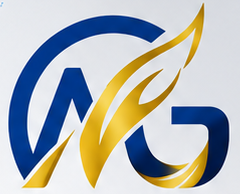
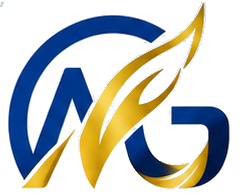
Add localized order form and prepare email notifications

diff --git a/src/storefront-copy.js b/src/storefront-copy.js
@@ -1,11 +1,11 @@
 export const copy = {
  en: {
- nav:['Home','Shop','About','Contact'], language:'Language', open:'Open menu', close:'Close menu', order:'Order on WhatsApp', shop:'Shop Products', shopNow:'Shop Now', all:'View all products', eyebrow:'HEALTHIER PEOPLE. STRONGER TOMORROWS.', title:['Premium Nutrition','for Strength, Wellness','& Daily Performance'], intro:'High-quality dietary supplements to support your energy, fitness, immunity and everyday well-being. Trusted nutrition for a stronger, healthier you.', mini:['Quality ingredients','Fast delivery in Kigali','Performance nutrition'], benefits:['Premium quality ingredients','Fast delivery in Kigali','Supports your wellness','Performance nutrition'], benefitText:['Carefully selected for your health','Get your supplements quickly','For a healthier, stronger you','Fuel your everyday potential'], featured:'Our Featured Products', specs:['300 g · 60 servings · 5 g','150 g · 30 servings · 5 g','Vitamin C + Zinc · 30 capsules','30 capsules','B1 + B6 + B12 · 30 capsules'], descriptions:['Supports strength, energy and muscular performance.','Supports endurance, performance and blood flow.','Supports your immune system and overall health.','Supports fat metabolism and energy production.','Supports nerve health and energy metabolism.'], names:['Creatine Monohydrate','L-Citrulline','C-Zinc','L-Carnitine','Milga Advance'], delivery:'FAST & RELIABLE DELIVERY IN KIGALI', deliveryText:'Order on WhatsApp and get your supplements delivered quickly and conveniently in Kigali.', points:['Easy ordering on WhatsApp','Fast delivery in Kigali','Customer support'], about:'About MGREFOTS', aboutTitle:'Nutrition for Your Everyday Goals', aboutText:'MGREFOTS LTD is based at Kigali View Hotel, Nyamirambo. We bring together dietary supplements, personal training and nutrition guidance to support your goals.', badges:['Kigali based','WhatsApp ordering','Training & nutrition guidance'], contact:'Ready to Order?', contactText:'Contact us for product availability, orders and delivery. Your first consultation and visit are free.', rights:'All rights reserved.', request:'Hello MGREFOTS, I would like to order', listRequest:'Hello MGREFOTS, please send me your available product list.'
+ nav:['Home','Shop','About','Contact'], language:'Language', open:'Open menu', close:'Close menu', order:'Order on WhatsApp', shop:'Shop Products', shopNow:'Shop Now', all:'View all products', eyebrow:'HEALTHIER PEOPLE. STRONGER TOMORROWS.', title:['Premium Nutrition','for Strength, Wellness','& Daily Performance'], intro:'High-quality dietary supplements to support your energy, fitness, immunity and everyday well-being. Trusted nutrition for a stronger, healthier you.', mini:['Quality ingredients','Fast delivery in Kigali','Performance nutrition'], benefits:['Premium quality ingredients','Fast delivery in Kigali','Supports your wellness','Performance nutrition'], benefitText:['Carefully selected for your health','Get your supplements quickly','For a healthier, stronger you','Fuel your everyday potential'], featured:'Our Featured Products', specs:['300 g · 60 servings · 5 g','150 g · 30 servings · 5 g','Vitamin C + Zinc · 30 capsules','30 capsules','B1 + B6 + B12 · 30 capsules'], descriptions:['Supports strength, energy and muscular performance.','Supports endurance, performance and blood flow.','Supports your immune system and overall health.','Supports fat metabolism and energy production.','Supports nerve health and energy metabolism.'], names:['Creatine Monohydrate','L-Citrulline','C-Zinc','L-Carnitine','Milga Advance'], prices:[50000,40000,27000,22000,50000], delivery:'FAST & RELIABLE DELIVERY IN KIGALI', deliveryText:'Order on WhatsApp and get your supplements delivered quickly and conveniently in Kigali.', points:['Easy ordering on WhatsApp','Fast delivery in Kigali','Customer support'], about:'About MGREFOTS', aboutTitle:'Nutrition for Your Everyday Goals', aboutText:'MGREFOTS LTD is based at Kigali View Hotel, Nyamirambo. We bring together dietary supplements, personal training and nutrition guidance to support your goals.', badges:['Kigali based','WhatsApp ordering','Training & nutrition guidance'], contact:'Ready to Order?', contactText:'Contact us for product availability, orders and delivery. Your first consultation and visit are free.', rights:'All rights reserved.', request:'Hello MGREFOTS, I would like to order', listRequest:'Hello MGREFOTS, please send me your available product list.', orderTitle:'Place your order', orderIntro:'Choose a product and quantity, then enter your contact and delivery details. Our team will contact you to confirm the order and payment.', fieldName:'Full name', fieldPhone:'Phone number', fieldCity:'City', fieldArea:'Area / district', fieldStreet:'Street / building number', fieldProduct:'Choose a product', fieldQty:'Quantity (bottles)', total:'Order total', submit:'Submit order', submitting:'Sending…', orderSuccess:'Your request was sent. Our team will contact you shortly to confirm your order and payment.', orderError:'We could not send your request. Please try again or contact us on WhatsApp.', paymentNote:'No payment is taken on this page. We will confirm payment details with you after receiving your order.', required:'Please fill in all required fields.', backHome:'Back to the shop', orderNav:'Order', emailNotReady:'Online order email is not connected yet. Please contact us on WhatsApp to place your order.'
  },
  rw: {
- nav:['Ahabanza','Ibicuruzwa','Abo turi bo','Twandikire'], language:'Ururimi', open:'Fungura menu', close:'Funga menu', order:'Tumiza kuri WhatsApp', shop:'Reba ibicuruzwa', shopNow:'Tumiza ubu', all:'Reba ibicuruzwa byose', eyebrow:'UBUZIMA BWIZA. EJO HAZAZA HARUSHIJEHO KUBA HEZA.', title:['Intungamubiri nziza','zo kongera imbaraga','no kwita ku buzima'], intro:'Inyongeramirire zifasha imbaraga, imyitozo n’ubudahangarwa bw’umubiri. Turakuzanira ibyo watumije muri Kigali.', mini:['Ibigize ibicuruzwa byiza','Kugeza ibicuruzwa muri Kigali','Intungamubiri z’imyitozo'], benefits:['Ibigize ibicuruzwa byiza','Kugeza ibicuruzwa muri Kigali','Kwita ku buzima bwawe','Intungamubiri z’imyitozo'], benefitText:['Byatoranyijwe mu kwita ku buzima','Bona ibyo watumije vuba','Ku buzima bwiza n’imbaraga','Fasha imikorere yawe ya buri munsi'], featured:'Ibicuruzwa byacu', specs:['300 g · Inshuro 60 · 5 g','150 g · Inshuro 30 · 5 g','Vitamine C + Zinc · Kapsule 30','Kapsule 30','B1 + B6 + B12 · Kapsule 30'], descriptions:['Ifasha imbaraga n’imikorere y’imikaya.','Ifasha kwihangana mu myitozo no gutembereza amaraso.','Ifasha ubudahangarwa bw’umubiri n’ubuzima muri rusange.','Ifasha umubiri gukoresha ibinure mu gukora ingufu.','Ifasha ubuzima bw’imyakura n’imikorere y’ingufu.'], names:['Creatine Monohydrate','L-Citrulline','C-Zinc','L-Carnitine','Milga Advance'], delivery:'TUKUGEZAHO IBICURUZWA MURI KIGALI', deliveryText:'Tumiza kuri WhatsApp, tukugezeho inyongeramirire zawe muri Kigali vuba kandi mu buryo bworoshye.', points:['Gutumiza kuri WhatsApp','Kugeza ibicuruzwa muri Kigali','Gufasha abakiriya'], about:'Abo MGREFOTS turi bo', aboutTitle:'Intungamubiri zigufasha kugera ku ntego zawe', aboutText:'MGREFOTS LTD ikorera muri Kigali View Hotel, Nyamirambo. Dutanga inyongeramirire, imyitozo iyobowe n’inama ku mirire kugira ngo tugufashe kugera ku ntego zawe.', badges:['Dukorera muri Kigali','Gutumiza kuri WhatsApp','Imyitozo n’inama ku mirire'], contact:'Witeguye gutumiza?', contactText:'Twandikire ubaze ibicuruzwa bihari, utumize cyangwa usabe ko tubikugezaho. Inama n’uruzinduko bya mbere ni ubuntu.', rights:'Uburenganzira bwose burabitswe.', request:'Muraho MGREFOTS, ndashaka gutumiza', listRequest:'Muraho MGREFOTS, munyohereze urutonde rw’ibicuruzwa bihari.'
+ nav:['Ahabanza','Ibicuruzwa','Abo turi bo','Twandikire'], language:'Ururimi', open:'Fungura menu', close:'Funga menu', order:'Tumiza kuri WhatsApp', shop:'Reba ibicuruzwa', shopNow:'Tumiza ubu', all:'Reba ibicuruzwa byose', eyebrow:'UBUZIMA BWIZA. EJO HAZAZA HARUSHIJEHO KUBA HEZA.', title:['Intungamubiri nziza','zo kongera imbaraga','no kwita ku buzima'], intro:'Inyongeramirire zifasha imbaraga, imyitozo n’ubudahangarwa bw’umubiri. Turakuzanira ibyo watumije muri Kigali.', mini:['Ibigize ibicuruzwa byiza','Kugeza ibicuruzwa muri Kigali','Intungamubiri z’imyitozo'], benefits:['Ibigize ibicuruzwa byiza','Kugeza ibicuruzwa muri Kigali','Kwita ku buzima bwawe','Intungamubiri z’imyitozo'], benefitText:['Byatoranyijwe mu kwita ku buzima','Bona ibyo watumije vuba','Ku buzima bwiza n’imbaraga','Fasha imikorere yawe ya buri munsi'], featured:'Ibicuruzwa byacu', specs:['300 g · Inshuro 60 · 5 g','150 g · Inshuro 30 · 5 g','Vitamine C + Zinc · Kapsule 30','Kapsule 30','B1 + B6 + B12 · Kapsule 30'], descriptions:['Ifasha imbaraga n’imikorere y’imikaya.','Ifasha kwihangana mu myitozo no gutembereza amaraso.','Ifasha ubudahangarwa bw’umubiri n’ubuzima muri rusange.','Ifasha umubiri gukoresha ibinure mu gukora ingufu.','Ifasha ubuzima bw’imyakura n’imikorere y’ingufu.'], names:['Creatine Monohydrate','L-Citrulline','C-Zinc','L-Carnitine','Milga Advance'], prices:[50000,40000,27000,22000,50000], delivery:'TUKUGEZAHO IBICURUZWA MURI KIGALI', deliveryText:'Tumiza kuri WhatsApp, tukugezeho inyongeramirire zawe muri Kigali vuba kandi mu buryo bworoshye.', points:['Gutumiza kuri WhatsApp','Kugeza ibicuruzwa muri Kigali','Gufasha abakiriya'], about:'Abo MGREFOTS turi bo', aboutTitle:'Intungamubiri zigufasha kugera ku ntego zawe', aboutText:'MGREFOTS LTD ikorera muri Kigali View Hotel, Nyamirambo. Dutanga inyongeramirire, imyitozo iyobowe n’inama ku mirire kugira ngo tugufashe kugera ku ntego zawe.', badges:['Dukorera muri Kigali','Gutumiza kuri WhatsApp','Imyitozo n’inama ku mirire'], contact:'Witeguye gutumiza?', contactText:'Twandikire ubaze ibicuruzwa bihari, utumize cyangwa usabe ko tubikugezaho. Inama n’uruzinduko bya mbere ni ubuntu.', rights:'Uburenganzira bwose burabitswe.', request:'Muraho MGREFOTS, ndashaka gutumiza', listRequest:'Muraho MGREFOTS, munyohereze urutonde rw’ibicuruzwa bihari.', orderTitle:'Tanga komande', orderIntro:'Hitamo igicuruzwa n’umubare wacyo, hanyuma wandike amakuru yawe n’aho tuzakigeza. Tuzaguhamagara twemeze komande n’uburyo bwo kwishyura.', fieldName:'Amazina yose', fieldPhone:'Nimero ya telefoni', fieldCity:'Umujyi', fieldArea:'Agace / umurenge', fieldStreet:'Izina ry’umuhanda / nimero y’inzu', fieldProduct:'Hitamo igicuruzwa', fieldQty:'Umubare w’amacupa', total:'Amafaranga yose', submit:'Ohereza komande', submitting:'Birimo koherezwa…', orderSuccess:'Komande yawe yoherejwe. Tuzakuvugisha vuba twemeze ibyo watumije n’uburyo bwo kwishyura.', orderError:'Ntitwabashije kohereza komande. Ongera ugerageze cyangwa utwandikire kuri WhatsApp.', paymentNote:'Nta mafaranga yishyuwe kuri uru rubuga. Tuzemeza uburyo bwo kwishyura tumaze kwakira komande yawe.', required:'Uzuza ibisabwa byose.', backHome:'Subira ku bicuruzwa', orderNav:'Komande', emailNotReady:'Kwakira komande kuri interineti ntibiratangira. Twandikire kuri WhatsApp tugufashe gutumiza.'
  },
  ar: {
- nav:['الرئيسية','المنتجات','عن الشركة','تواصل معنا'], language:'اللغة', open:'فتح القائمة', close:'إغلاق القائمة', order:'اطلب عبر واتساب', shop:'تسوّق المنتجات', shopNow:'اطلب الآن', all:'شاهد كل المنتجات', eyebrow:'صحة أفضل اليوم. قوة أكبر غدًا.', title:['تغذية عالية الجودة','للقوة والصحة','وأداء أفضل كل يوم'], intro:'مكملات غذائية عالية الجودة لدعم طاقتك ولياقتك ومناعتك وصحتك اليومية، مع خدمة توصيل موثوقة داخل كيغالي.', mini:['مكونات عالية الجودة','توصيل سريع في كيغالي','تغذية تدعم أداءك'], benefits:['مكونات عالية الجودة','توصيل سريع في كيغالي','دعم صحتك اليومية','تغذية للأداء الرياضي'], benefitText:['مختارة بعناية لصحتك','منتجاتك تصلك بسرعة','لصحة أفضل وجسم أقوى','ادعم أداءك كل يوم'], featured:'منتجاتنا المميزة', specs:['٣٠٠ جم · ٦٠ حصة · ٥ جم','١٥٠ جم · ٣٠ حصة · ٥ جم','فيتامين C + زنك · ٣٠ كبسولة','٣٠ كبسولة','B1 + B6 + B12 · ٣٠ كبسولة'], descriptions:['يدعم القوة والطاقة والأداء العضلي.','يدعم التحمل والأداء وتدفق الدم.','يدعم المناعة والصحة العامة.','يدعم استقلاب الدهون وإنتاج الطاقة.','يدعم صحة الأعصاب واستقلاب الطاقة.'], names:['كرياتين مونوهيدرات','إل-سيترولين','سي-زنك','إل-كارنيتين','ميلجا أدفانس'], delivery:'توصيل سريع وموثوق داخل كيغالي', deliveryText:'اطلب عبر واتساب واستلم مكملاتك بسرعة وسهولة داخل كيغالي.', points:['طلب سهل عبر واتساب','توصيل سريع في كيغالي','دعم العملاء'], about:'عن MGREFOTS', aboutTitle:'تغذية تساعدك على تحقيق أهدافك', aboutText:'شركة MGREFOTS LTD مقرها فندق كيغالي فيو، نياميرامبو. نقدم المكملات الغذائية والتدريب الشخصي والإرشاد الغذائي لمساعدتك في تحقيق أهدافك.', badges:['مقرنا في كيغالي','الطلب عبر واتساب','تدريب وإرشاد غذائي'], contact:'جاهز لطلب منتجاتك؟', contactText:'تواصل معنا لمعرفة المنتجات المتاحة والطلب والتوصيل. الاستشارة والزيارة الأولى مجانية.', rights:'جميع الحقوق محفوظة.', request:'مرحبًا MGREFOTS، أريد طلب', listRequest:'مرحبًا MGREFOTS، أرسلوا لي قائمة المنتجات المتاحة.'
+ nav:['الرئيسية','المنتجات','عن الشركة','تواصل معنا'], language:'اللغة', open:'فتح القائمة', close:'إغلاق القائمة', order:'اطلب عبر واتساب', shop:'تسوّق المنتجات', shopNow:'اطلب الآن', all:'شاهد كل المنتجات', eyebrow:'صحة أفضل اليوم. قوة أكبر غدًا.', title:['تغذية عالية الجودة','للقوة والصحة','وأداء أفضل كل يوم'], intro:'مكملات غذائية عالية الجودة لدعم طاقتك ولياقتك ومناعتك وصحتك اليومية، مع خدمة توصيل موثوقة داخل كيغالي.', mini:['مكونات عالية الجودة','توصيل سريع في كيغالي','تغذية تدعم أداءك'], benefits:['مكونات عالية الجودة','توصيل سريع في كيغالي','دعم صحتك اليومية','تغذية للأداء الرياضي'], benefitText:['مختارة بعناية لصحتك','منتجاتك تصلك بسرعة','لصحة أفضل وجسم أقوى','ادعم أداءك كل يوم'], featured:'منتجاتنا المميزة', specs:['٣٠٠ جم · ٦٠ حصة · ٥ جم','١٥٠ جم · ٣٠ حصة · ٥ جم','فيتامين C + زنك · ٣٠ كبسولة','٣٠ كبسولة','B1 + B6 + B12 · ٣٠ كبسولة'], descriptions:['يدعم القوة والطاقة والأداء العضلي.','يدعم التحمل والأداء وتدفق الدم.','يدعم المناعة والصحة العامة.','يدعم استقلاب الدهون وإنتاج الطاقة.','يدعم صحة الأعصاب واستقلاب الطاقة.'], names:['كرياتين مونوهيدرات','إل-سيترولين','سي-زنك','إل-كارنيتين','ميلجا أدفانس'], prices:[50000,40000,27000,22000,50000], delivery:'توصيل سريع وموثوق داخل كيغالي', deliveryText:'اطلب عبر واتساب واستلم مكملاتك بسرعة وسهولة داخل كيغالي.', points:['طلب سهل عبر واتساب','توصيل سريع في كيغالي','دعم العملاء'], about:'عن MGREFOTS', aboutTitle:'تغذية تساعدك على تحقيق أهدافك', aboutText:'شركة MGREFOTS LTD مقرها فندق كيغالي فيو، نياميرامبو. نقدم المكملات الغذائية والتدريب الشخصي والإرشاد الغذائي لمساعدتك في تحقيق أهدافك.', badges:['مقرنا في كيغالي','الطلب عبر واتساب','تدريب وإرشاد غذائي'], contact:'جاهز لطلب منتجاتك؟', contactText:'تواصل معنا لمعرفة المنتجات المتاحة والطلب والتوصيل. الاستشارة والزيارة الأولى مجانية.', rights:'جميع الحقوق محفوظة.', request:'مرحبًا MGREFOTS، أريد طلب', listRequest:'مرحبًا MGREFOTS، أرسلوا لي قائمة المنتجات المتاحة.', orderTitle:'إتمام طلبك', orderIntro:'اختر المنتج والكمية، ثم اكتب بياناتك وعنوان التوصيل. سنتواصل معك لتأكيد الطلب وطريقة الدفع.', fieldName:'الاسم الكامل', fieldPhone:'رقم الهاتف', fieldCity:'المدينة', fieldArea:'المنطقة / الحي', fieldStreet:'الشارع / رقم المبنى', fieldProduct:'اختر المنتج', fieldQty:'الكمية (عبوات)', total:'إجمالي الطلب', submit:'إرسال الطلب', submitting:'جارٍ الإرسال…', orderSuccess:'تم إرسال طلبك. سيتواصل معك فريقنا قريبًا لتأكيد الطلب والدفع.', orderError:'تعذر إرسال الطلب. حاول مرة أخرى أو تواصل معنا عبر واتساب.', paymentNote:'لن يتم خصم أي مبلغ من هذه الصفحة. سنتواصل معك لتأكيد طريقة الدفع بعد استلام طلبك.', required:'يرجى ملء جميع البيانات المطلوبة.', backHome:'العودة إلى المتجر', orderNav:'اطلب الآن', emailNotReady:'استقبال الطلبات عبر الموقع لم يتفعّل بعد. تواصل معنا عبر واتساب لإتمام طلبك.'
  }
 };

diff --git a/src/App.jsx b/src/App.jsx
@@ -7,19 +7,29 @@ import '@fontsource/libre-baskerville/700.css';
 const images=['creatine','citrulline','czinc','carnitine','milga'];
 const wa=message=>`https://wa.me/250792294432?text=${encodeURIComponent(message)}`;
 function WhatsAppIcon(){return <svg width="21" height="21" viewBox="0 0 24 24" fill="none" stroke="currentColor" strokeWidth="1.7" aria-hidden="true"><path d="M20.5 11.7a8.5 8.5 0 0 1-12.8 7.4L3 20.5l1.4-4.6A8.5 8.5 0 1 1 20.5 11.7Z"/><path d="M8.5 7.5c-.8.1-1.1 1-.8 2 .8 2.7 2.8 4.7 5.6 5.5 1 .3 2-.1 2.2-.9l.2-.8-2.5-1.2-.8.9c-1.5-.7-2.5-1.7-3.1-3.1l.8-.8-1-2.2Z"/></svg>}
-function Brand(){return <a className="brand" href="#home" aria-label="MGREFOTS"><img className="brand-symbol" src="/brand/mark.png" width="240" height="194" alt=""/><span className="brand-wordmark"><strong>M.G.REFOTS<sup>®</sup></strong><small>DIETARY SUPPLEMENTS</small></span></a>}
+function Brand(){return <a className="brand" href="/#home" aria-label="MGREFOTS"><img className="brand-symbol" src="/brand/mark.png" width="240" height="194" alt=""/><span className="brand-wordmark"><strong>M.G.REFOTS<sup>®</sup></strong><small>DIETARY SUPPLEMENTS</small></span></a>}
+function LanguagePicker({lang,setLang,t}){return <label className="language-picker"><Globe2 size={17}/><span className="sr-only">{t.language}</span><select aria-label={t.language} value={lang} onChange={e=>setLang(e.target.value)}><option value="en">English</option><option value="rw">Kinyarwanda</option><option value="ar">العربية</option></select></label>}
+function OrderButton({className='',t}){return <a className={`btn btn-gold ${className}`} href={wa(t.request)} target="_blank" rel="noreferrer"><WhatsAppIcon/><span>{t.order}</span><ArrowRight size={16}/></a>}
 export default function App(){
  const [lang,setLang]=useState(()=>{try{return ['en','rw','ar'].includes(localStorage.getItem('mgrefots-language'))?localStorage.getItem('mgrefots-language'):'en'}catch{return 'en'}});
- const [menu,setMenu]=useState(false); const t=copy[lang];
+ const [menu,setMenu]=useState(false); const [quantity,setQuantity]=useState(1); const [submitting,setSubmitting]=useState(false); const [notice,setNotice]=useState(''); const [sent,setSent]=useState(false); const [form,setForm]=useState({name:'',phone:'',city:'',area:'',street:'',product:new URLSearchParams(window.location.search).get('product')||'creatine'}); const t=copy[lang];
  useEffect(()=>{document.documentElement.lang=lang;document.documentElement.dir=lang==='ar'?'rtl':'ltr';try{localStorage.setItem('mgrefots-language',lang)}catch{}},[lang]);
  const order=(i)=>`${t.request} ${t.names[i]} (${t.specs[i]}).`;
- const OrderButton=({className=''})=><a className={`btn btn-gold ${className}`} href={wa(t.request)} target="_blank" rel="noreferrer"><WhatsAppIcon/><span>{t.order}</span><ArrowRight size={16}/></a>;
  const icons=[Leaf,Truck,ShieldCheck,Dumbbell];
- return <div className="site-shell"><header className="site-header"><div className="container header-inner"><Brand/><nav className={`main-nav ${menu?'open':''}`} aria-label={t.nav[0]}>{['home','shop','about','contact'].map((id,i)=><a key={id} href={`#${id}`} onClick={()=>setMenu(false)}>{t.nav[i]}</a>)}<OrderButton className="nav-whatsapp"/></nav><div className="header-controls"><label className="language-picker"><Globe2 size={17}/><span className="sr-only">{t.language}</span><select aria-label={t.language} value={lang} onChange={e=>setLang(e.target.value)}><option value="en">English</option><option value="rw">Kinyarwanda</option><option value="ar">العربية</option></select></label><button className="menu-toggle" aria-expanded={menu} aria-label={menu?t.close:t.open} onClick={()=>setMenu(!menu)}>{menu?<X/>:<Menu/>}</button></div></div></header>
+ const isOrderPage=window.location.pathname.replace(/\/$/,'')==='/order';
+ const submitOrder=async event=>{event.preventDefault();setNotice('');setSubmitting(true);try{const response=await fetch('/api/orders',{method:'POST',headers:{'Content-Type':'application/json'},body:JSON.stringify({...form,quantity:Number(quantity),website:''})});const data=await response.json();if(!response.ok)throw new Error(data.code==='ORDER_EMAIL_NOT_CONFIGURED'?t.emailNotReady:t.orderError);setSent(true);setNotice(t.orderSuccess)}catch(error){setNotice(error.message||t.orderError)}finally{setSubmitting(false)}};
+ if(isOrderPage)return <div className="site-shell order-page"><header className="site-header"><div className="container header-inner"><Brand/><div className="header-controls"><LanguagePicker lang={lang} setLang={setLang} t={t}/><a className="order-back" href="/#shop">{t.backHome}</a></div></div></header><main className="order-main"><div className="order-card"><a href="/#home" className="order-brand"><Brand/></a><p className="section-kicker">MGREFOTS · KIGALI</p><h1>{t.orderTitle}</h1><p className="order-intro">{t.orderIntro}</p>{sent?<div className="order-success" role="status"><CheckCircle2 size={34}/><p>{notice}</p><a className="btn btn-gold" href="/#shop">{t.backHome}</a></div>:<form className="order-form" onSubmit={submitOrder}>
+ <label>{t.fieldName}<input autoComplete="name" name="name" value={form.name} onChange={e=>setForm({...form,name:e.target.value})} required maxLength="100"/></label>
+ <label>{t.fieldPhone}<input type="tel" autoComplete="tel" name="phone" inputMode="tel" value={form.phone} onChange={e=>setForm({...form,phone:e.target.value})} required maxLength="24" placeholder="+250 7xx xxx xxx" dir="ltr"/></label>
+ <div className="order-address-grid"><label>{t.fieldCity}<input autoComplete="address-level2" name="city" value={form.city} onChange={e=>setForm({...form,city:e.target.value})} required maxLength="80"/></label><label>{t.fieldArea}<input autoComplete="address-level3" name="area" value={form.area} onChange={e=>setForm({...form,area:e.target.value})} required maxLength="100"/></label></div>
+ <label>{t.fieldStreet}<input autoComplete="street-address" name="street" value={form.street} onChange={e=>setForm({...form,street:e.target.value})} required maxLength="160"/></label>
+ <div className="order-address-grid"><label>{t.fieldProduct}<select name="product" value={form.product} onChange={e=>setForm({...form,product:e.target.value})}>{images.map((image,i)=><option value={image} key={image}>{t.names[i]} — {t.prices[i].toLocaleString('en-US')} RWF</option>)}</select></label><label>{t.fieldQty}<input type="number" name="quantity" min="1" max="99" step="1" value={quantity} onChange={e=>setQuantity(Math.max(1,Math.min(99,Number(e.target.value)||1)))} required/></label></div>
+ <div className="order-total"><span>{t.total}</span><strong>{((t.prices[images.indexOf(form.product)]||0)*quantity).toLocaleString('en-US')} RWF</strong></div><p className="payment-note">{t.paymentNote}</p><input className="order-honeypot" type="text" name="website" tabIndex="-1" autoComplete="off" aria-hidden="true"/><button className="btn btn-gold order-submit" type="submit" disabled={submitting}>{submitting?t.submitting:t.submit}<ArrowRight size={17}/></button>{notice&&<p className="order-error" role="alert">{notice}</p>}</form>}<a className="order-whatsapp" href={wa(t.request)} target="_blank" rel="noreferrer"><WhatsAppIcon/>{t.order}</a></div></main><footer className="site-footer"><div className="container footer-inner"><Brand/><p>© {new Date().getFullYear()} MGREFOTS LTD. {t.rights}</p></div></footer></div>;
+ return <div className="site-shell"><header className="site-header"><div className="container header-inner"><Brand/><nav className={`main-nav ${menu?'open':''}`} aria-label={t.nav[0]}>{['home','shop','about','contact'].map((id,i)=><a key={id} href={`#${id}`} onClick={()=>setMenu(false)}>{t.nav[i]}</a>)}<a className="order-nav-link" href="/order">{t.orderNav}</a><OrderButton className="nav-whatsapp" t={t}/></nav><div className="header-controls"><LanguagePicker lang={lang} setLang={setLang} t={t}/><button className="menu-toggle" aria-expanded={menu} aria-label={menu?t.close:t.open} onClick={()=>setMenu(!menu)}>{menu?<X/>:<Menu/>}</button></div></div></header>
  <main><section id="home" className="hero"><div className="container hero-grid"><div className="hero-copy"><p className="eyebrow">{t.eyebrow}</p><h1>{t.title.map(line=><span key={line}>{line}</span>)}</h1><p className="hero-text">{t.intro}</p><div className="hero-actions"><a className="btn btn-gold" href="#shop">{t.shop}<ArrowRight size={18}/></a><a className="btn btn-outline" href={wa(t.request)} target="_blank" rel="noreferrer"><WhatsAppIcon/>{t.order}</a></div><div className="hero-mini-features">{[ShieldCheck,Truck,Dumbbell].map((Icon,i)=><div key={i}><Icon size={24}/><span>{t.mini[i]}</span></div>)}</div></div><div className="hero-visual"><img className="hero-scene" src="/brand/hero-products.webp" alt={t.names.slice(0,3).join(', ')} fetchPriority="high"/></div></div></section>
  <section className="benefit-strip"><div className="container benefit-grid">{icons.map((Icon,i)=><article key={i}><span className="benefit-icon"><Icon size={32} strokeWidth={1.8}/></span><div><strong>{t.benefits[i]}</strong><span>{t.benefitText[i]}</span></div></article>)}</div></section>
- <section id="shop" className="products-section section"><div className="container"><div className="section-heading"><h2>{t.featured}</h2><a href={wa(t.listRequest)} target="_blank" rel="noreferrer">{t.all}<ArrowRight size={16}/></a></div><div className="product-grid">{images.map((img,i)=><article className="product-card" key={img}><div className="product-image-wrap"><img src={`/products/${img}.webp`} alt={t.names[i]} loading="lazy" width="1000" height="1000"/></div><div className="product-card-copy"><h3>{t.names[i]}</h3><p className="product-subtitle">{t.specs[i]}</p><p>{t.descriptions[i]}</p></div><a className="shop-now" href={wa(order(i))} target="_blank" rel="noreferrer">{t.shopNow}<ArrowRight size={16}/></a></article>)}</div></div></section>
- <section className="delivery-band"><div className="delivery-photo" aria-hidden="true"/><div className="container delivery-inner"><div className="delivery-title"><MapPin size={34}/><div><strong>{t.delivery}</strong><p>{t.deliveryText}</p></div></div><OrderButton/><div className="delivery-points">{[PackageCheck,Bike,ShieldCheck].map((Icon,i)=><span key={i}><Icon size={28}/>{t.points[i]}</span>)}</div></div></section>
+ <section id="shop" className="products-section section"><div className="container"><div className="section-heading"><h2>{t.featured}</h2><a href={wa(t.listRequest)} target="_blank" rel="noreferrer">{t.all}<ArrowRight size={16}/></a></div><div className="product-grid">{images.map((img,i)=><article className="product-card" key={img}><div className="product-image-wrap"><img src={`/products/${img}.webp`} alt={t.names[i]} loading="lazy" width="1000" height="1000"/></div><div className="product-card-copy"><h3>{t.names[i]}</h3><p className="product-subtitle">{t.specs[i]}</p><p>{t.descriptions[i]}</p></div><a className="shop-now" href={`/order?product=${img}`}>{t.shopNow}<ArrowRight size={16}/></a></article>)}</div></div></section>
+ <section className="delivery-band"><div className="delivery-photo" aria-hidden="true"/><div className="container delivery-inner"><div className="delivery-title"><MapPin size={34}/><div><strong>{t.delivery}</strong><p>{t.deliveryText}</p></div></div><OrderButton t={t}/><div className="delivery-points">{[PackageCheck,Bike,ShieldCheck].map((Icon,i)=><span key={i}><Icon size={28}/>{t.points[i]}</span>)}</div></div></section>
  <section id="about" className="section"><div className="container about-panel"><div><p className="section-kicker">{t.about}</p><h2>{t.aboutTitle}</h2><p>{t.aboutText}</p></div><div className="about-badges">{t.badges.map(text=><span key={text}><CheckCircle2 size={22}/>{text}</span>)}</div></div></section>
- <section id="contact" className="contact-section"><div className="container contact-grid"><div><h2>{t.contact}</h2><p>{t.contactText}</p><OrderButton/></div><div className="contact-card"><a dir="ltr" href="tel:+250792294432"><Phone size={21}/>+250 792 294 432</a><a dir="ltr" href="mailto:info@mgrefots.com"><Mail size={21}/>info@mgrefots.com</a><span><MapPin size={21}/>Kigali View Hotel, Nyamirambo</span><div className="social-row"><a href="https://www.instagram.com/mobadr2026/" aria-label="Instagram" target="_blank" rel="noreferrer"><Instagram/></a><a href="https://www.facebook.com/profile.php?id=61580765596064" aria-label="Facebook" target="_blank" rel="noreferrer"><Facebook/></a></div></div></div></section></main><footer className="site-footer"><div className="container footer-inner"><Brand/><p>© {new Date().getFullYear()} MGREFOTS LTD. {t.rights}</p></div></footer></div>
+ <section id="contact" className="contact-section"><div className="container contact-grid"><div><h2>{t.contact}</h2><p>{t.contactText}</p><OrderButton t={t}/></div><div className="contact-card"><a dir="ltr" href="tel:+250792294432"><Phone size={21}/>+250 792 294 432</a><a dir="ltr" href="mailto:info@mgrefots.com"><Mail size={21}/>info@mgrefots.com</a><span><MapPin size={21}/>Kigali View Hotel, Nyamirambo</span><div className="social-row"><a href="https://www.instagram.com/mobadr2026/" aria-label="Instagram" target="_blank" rel="noreferrer"><Instagram/></a><a href="https://www.facebook.com/profile.php?id=61580765596064" aria-label="Facebook" target="_blank" rel="noreferrer"><Facebook/></a></div></div></div></section></main><footer className="site-footer"><div className="container footer-inner"><Brand/><p>© {new Date().getFullYear()} MGREFOTS LTD. {t.rights}</p></div></footer></div>
 }

diff --git a/src/index.css b/src/index.css
@@ -4,4 +4,7 @@
 @media(max-width:900px){.hero-grid{grid-template-columns:46% 54%}.hero h1{font-size:30px}.hero-copy{padding-block:30px}.hero-mini-features{flex-wrap:wrap;gap:12px}.hero-scene{object-position:55% center}.hero-actions .btn{font-size:11px;padding:0 14px}.product-grid{grid-template-columns:repeat(3,minmax(0,1fr))}.benefit-grid{grid-template-columns:repeat(2,1fr);gap:15px}.benefit-grid article:nth-child(2){border:0}.benefit-grid article:first-child{padding-inline-start:12px}.contact-grid{gap:24px}.about-panel{gap:20px}}
 @media(max-width:680px){html{scroll-padding-top:75px}.container{width:calc(100% - 28px)}.header-inner{min-height:68px;gap:8px}.brand img{width:156px}.language-picker{padding:6px;gap:3px}.language-picker select{max-width:95px;font-size:11px}.language-picker>svg{width:15px}.menu-toggle{display:block;padding:6px}.main-nav{display:none;position:absolute;top:68px;inset-inline:14px;padding:15px;background:white;border:1px solid var(--line);border-radius:10px;box-shadow:0 12px 30px #08255022}.main-nav.open{display:grid;gap:3px}.main-nav>a:not(.btn){padding:12px}.main-nav .nav-whatsapp{display:flex}.hero-grid{display:flex;flex-direction:column}.hero{background:#faf6ef}.hero-copy{padding:28px 4px 24px;text-align:center}.hero h1{font-size:32px;line-height:1.25;letter-spacing:-.7px}.hero-text{font-size:13px;margin:15px auto 0;max-width:440px}.eyebrow{font-size:9px}.hero-actions,.hero-mini-features{justify-content:center}.hero-actions{gap:8px}.hero-actions .btn{font-size:12px}.hero-mini-features{margin-top:22px;flex-wrap:nowrap;font-size:9px;gap:10px}.hero-mini-features>div{flex-direction:column;font-size:9px;flex:1}.hero-visual{width:calc(100% + 28px);margin-inline:-14px;aspect-ratio:850/374}.hero-scene{position:static;width:100%;height:100%;object-fit:cover;mask-image:none!important;-webkit-mask-image:none!important}.benefit-grid{gap:0;padding-block:6px}.benefit-grid article{padding:14px 8px;gap:8px;border:0}.benefit-grid strong{font-size:10px}.benefit-grid span:not(.benefit-icon){font-size:9px}.benefit-icon svg{width:26px}.section{padding:25px 0}.section-heading h2{font-size:20px}.section-heading>a{font-size:9px}.section-heading{gap:12px}.product-grid{grid-template-columns:repeat(2,minmax(0,1fr));gap:10px}.product-image-wrap{height:190px;padding:8px}.product-card h3{font-size:14px}.product-card-copy{padding-inline:8px}.product-card p{font-size:11px}.product-card .product-subtitle{font-size:9px}.product-card:last-child{grid-column:1/-1;width:calc(50% - 5px);justify-self:center}.delivery-photo{position:relative;height:115px;width:100%;background-position:center 45%}.delivery-inner{padding:22px 0;display:flex;flex-direction:column;gap:18px}.delivery-title{align-self:stretch}.delivery-title strong{font-size:16px}.delivery-points{width:100%;padding:0}.delivery-points span:first-child{border:0}.about-panel{grid-template-columns:1fr;padding:23px;gap:12px}.about-panel h2,.contact-section h2{font-size:22px}.about-panel p:not(.section-kicker){font-size:13px}.contact-section{padding:32px 0}.contact-grid{grid-template-columns:1fr}.contact-card{padding:20px}.footer-inner{padding:20px 0;flex-direction:column;gap:10px;min-height:110px;text-align:center}[dir=rtl] .hero{background:#faf6ef}[dir=rtl] .hero h1{font-size:30px}}
 @media(prefers-reduced-motion:reduce){html{scroll-behavior:auto}*,*:before,*:after{transition:none!important}}
-.brand{display:inline-flex;align-items:center;gap:9px;direction:ltr}.brand .brand-symbol{width:55px;height:46px;object-fit:contain;mix-blend-mode:multiply}.brand-wordmark{display:flex;flex-direction:column;color:#071f45;text-align:center}.brand-wordmark strong{font-family:'Libre Baskerville',Georgia,serif;font-size:17px;letter-spacing:.1px}.brand-wordmark sup{font-family:'Inter Variable',sans-serif;font-size:7px}.brand-wordmark small{font-family:'Inter Variable',sans-serif;font-size:6px;font-weight:650;letter-spacing:1.1px;margin-top:4px}@media(max-width:680px){.brand{gap:4px}.brand .brand-symbol{width:43px;height:38px}.brand-wordmark strong{font-size:13px}.brand-wordmark small{font-size:5px;letter-spacing:.6px}}
+.brand{display:inline-flex;align-items:center;gap:9px;direction:ltr}.brand .brand-symbol{width:55px;height:46px;object-fit:contain;mix-blend-mode:multiply}.brand-wordmark{display:flex;flex-direction:column;color:#071f45;text-align:center}.brand-wordmark strong{font-family:'Libre Baskerville',Georgia,serif;font-size:18px;letter-spacing:.1px}.brand-wordmark sup{font-family:'Inter Variable',sans-serif;font-size:7px}.brand-wordmark small{font-family:'Inter Variable',sans-serif;font-size:6px;font-weight:650;letter-spacing:1.1px;margin-top:4px}@media(max-width:680px){.brand{gap:4px}.brand .brand-symbol{width:49px;height:43px}.brand-wordmark strong{font-size:13px}.brand-wordmark small{font-size:5px;letter-spacing:.6px}}
+.order-nav-link{font-weight:700;color:#9a6a06}.order-page{min-height:100vh;background:#f7f8fb}.order-back{font-size:12px;color:#264668}.order-main{padding:36px 16px 52px}.order-card{width:min(680px,100%);margin:0 auto;background:white;border:1px solid var(--line);border-radius:18px;padding:30px;box-shadow:0 14px 45px #08255012}.order-brand{display:inline-block;margin-bottom:15px}.order-brand .brand-symbol{width:49px;height:43px}.order-brand .brand-wordmark strong{font-size:15px}.order-card h1{margin:0;font-size:27px;line-height:1.45;color:var(--navy)}.order-intro{margin:9px 0 23px;color:#5e6b80;font-size:13px}.order-form{display:grid;gap:14px}.order-form label{display:grid;gap:6px;font-size:12px;font-weight:650;color:#203957}.order-form input:not(.order-honeypot),.order-form select{height:43px;width:100%;min-width:0;padding:0 12px;border:1px solid #ccd5e1;border-radius:8px;color:#152c4b;background:#fff;font:inherit;font-size:14px}.order-form input:focus,.order-form select:focus{outline:2px solid #dba01c55;border-color:#c48a10}.order-address-grid{display:grid;grid-template-columns:1fr 1fr;gap:13px}.order-total{margin-top:4px;padding:16px 0;display:flex;justify-content:space-between;align-items:center;border-top:1px solid var(--line);border-bottom:1px solid var(--line);font-size:14px}.order-total strong{font-size:20px;color:var(--navy)}.payment-note{margin:0;color:#56667c;font-size:11px;line-height:1.6}.order-submit{width:100%;min-height:48px;border:0;cursor:pointer;font-size:14px}.order-submit:disabled{opacity:.65;cursor:wait}.order-honeypot{position:absolute!important;left:-10000px!important;width:1px!important;height:1px!important;opacity:0!important}.order-error{margin:0;padding:10px 12px;border-radius:7px;background:#fff0ed;color:#992e1b;font-size:12px}.order-success{padding:22px 0;display:grid;justify-items:center;gap:12px;text-align:center;color:#166534}.order-success p{font-size:14px;line-height:1.7}.order-whatsapp{margin:19px auto 0;display:flex;justify-content:center;align-items:center;gap:8px;color:#17643d;font-size:12px}.site-footer .brand-symbol{width:43px;height:37px}.site-footer .brand-wordmark strong{font-size:14px}.site-footer .brand-wordmark small{font-size:5px}
+[dir=rtl] .order-card{text-align:right}[dir=rtl] .order-card h1,[dir=rtl] .order-intro,[dir=rtl] .order-form label,[dir=rtl] .payment-note{font-family:'Noto Sans Arabic Variable',sans-serif}[dir=rtl] .order-total{direction:rtl}[dir=rtl] .order-submit svg{transform:rotate(180deg)}
+@media(max-width:680px){.main-nav .order-nav-link{display:block;padding:12px}.order-back{font-size:10px}.order-card{padding:22px 17px;border-radius:14px}.order-main{padding:20px 12px 32px}.order-card h1{font-size:22px}.order-address-grid{grid-template-columns:1fr;gap:14px}}

diff --git a/api/orders.js b/api/orders.js
@@ -1,0 +1,73 @@
+const PRODUCTS = {
+  creatine: { name: 'Creatine Monohydrate', price: 50000 },
+  citrulline: { name: 'L-Citrulline', price: 40000 },
+  czinc: { name: 'C-Zinc', price: 27000 },
+  carnitine: { name: 'L-Carnitine', price: 22000 },
+  milga: { name: 'Milga Advance', price: 50000 },
+};
+
+const clean = (value, max) => String(value ?? '').trim().slice(0, max);
+const escapeHtml = (value) => value.replace(/[&<>"']/g, (char) => ({
+  '&': '&amp;', '<': '&lt;', '>': '&gt;', '"': '&quot;', "'": '&#39;',
+}[char]));
+
+export default async function handler(req, res) {
+  if (req.method !== 'POST') {
+    res.setHeader('Allow', 'POST');
+    return res.status(405).json({ message: 'Method not allowed.' });
+  }
+
+  const body = req.body && typeof req.body === 'object' ? req.body : {};
+  // Quietly accept bot submissions without sending email.
+  if (clean(body.website, 200)) return res.status(200).json({ ok: true });
+
+  const name = clean(body.name, 100);
+  const phone = clean(body.phone, 24);
+  const city = clean(body.city, 80);
+  const area = clean(body.area, 100);
+  const street = clean(body.street, 160);
+  const product = PRODUCTS[clean(body.product, 30)];
+  const quantity = Number(body.quantity);
+
+  if (!name || !phone || !city || !area || !street || !product ||
+      !/^\+?[0-9\s().-]{7,24}$/.test(phone) || !Number.isInteger(quantity) ||
+      quantity < 1 || quantity > 99) {
+    return res.status(400).json({ message: 'Check your contact, delivery and product details, then try again.' });
+  }
+
+  const apiKey = process.env.RESEND_API_KEY;
+  const sender = process.env.RESEND_FROM_EMAIL;
+  const recipient = process.env.ORDER_NOTIFICATION_EMAIL || 'info@mgrefots.com';
+  if (!apiKey || !sender) {
+    return res.status(503).json({ code: 'ORDER_EMAIL_NOT_CONFIGURED' });
+  }
+
+  const total = product.price * quantity;
+  const orderId = `MG-${Date.now().toString(36).toUpperCase()}`;
+  const fields = [
+    ['Order ID', orderId], ['Product', product.name], ['Quantity', `${quantity} bottle(s)`],
+    ['Unit price', `${product.price.toLocaleString('en-US')} RWF`],
+    ['Order total', `${total.toLocaleString('en-US')} RWF`], ['Customer name', name],
+    ['Phone', phone], ['City', city], ['Area / district', area], ['Street / building', street],
+  ];
+  const text = fields.map(([label, value]) => `${label}: ${value}`).join('\n');
+  const html = `<h2>New MGREFOTS order request</h2><table>${fields.map(([label, value]) =>
+    `<tr><th align="left" style="padding:6px 12px 6px 0">${escapeHtml(label)}</th><td style="padding:6px">${escapeHtml(value)}</td></tr>`
+  ).join('')}</table><p>Contact the customer to confirm availability, delivery and payment.</p>`;
+
+  try {
+    const response = await fetch('https://api.resend.com/emails', {
+      method: 'POST',
+      headers: { Authorization: `Bearer ${apiKey}`, 'Content-Type': 'application/json' },
+      body: JSON.stringify({ from: sender, to: [recipient], subject: `New MGREFOTS order — ${orderId}`, text, html }),
+    });
+    if (!response.ok) {
+      console.error('Order email provider rejected request:', response.status, await response.text());
+      return res.status(502).json({ message: 'We could not deliver your order notification. Please try again or contact us on WhatsApp.' });
+    }
+    return res.status(200).json({ ok: true, orderId, total });
+  } catch (error) {
+    console.error('Order email delivery failed:', error);
+    return res.status(502).json({ message: 'We could not deliver your order notification. Please try again or contact us on WhatsApp.' });
+  }
+}

diff --git a/README.md b/README.md
@@ -18,3 +18,13 @@ View your app in AI Studio: https://ai.studio/apps/da44866f-5d48-4564-b742-9b2ea
 2. Set the `GEMINI_API_KEY` in [.env.local](.env.local) to your Gemini API key
 3. Run the app:
    `npm run dev`
+
+## Order form email delivery
+
+The `/order` page validates the five supported products and their prices in `api/orders.js`. To deliver new-order notifications, configure these Vercel Production environment variables:
+
+- `RESEND_API_KEY` — a Resend API key with permission to send email.
+- `RESEND_FROM_EMAIL` — a sender address on a domain verified with Resend, for example `MGREFOTS Orders <orders@mgrefots.com>`.
+- `ORDER_NOTIFICATION_EMAIL` — optional; defaults to `info@mgrefots.com`.
+
+After adding the variables, redeploy the Vercel project. Until then the form displays a message directing customers to WhatsApp. This form records an order request; it does not charge the customer. The team confirms payment and delivery with the customer.
